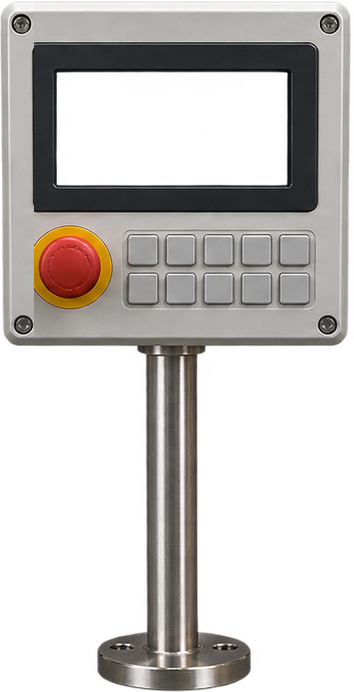
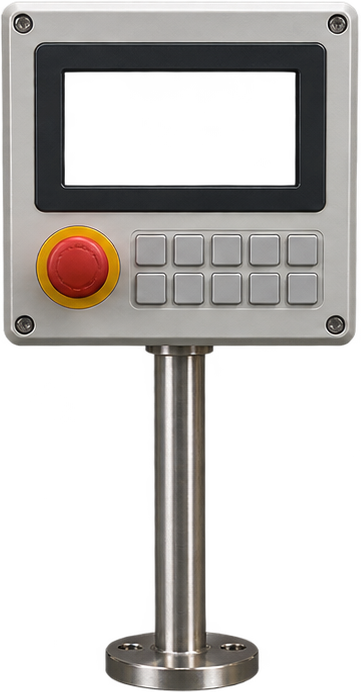
Expo 2019: пульт на стойке — из дорисованного Эльдаром исходника, на экране своё стекло.
Эльдар (29.10): «дорисовал — там оказывается кусочек был отрезан и лежал в другом файле
(line_monitor)»; «на экране должно быть что-то, он сейчас дыркой выглядит». Пульт —
hmi_terminal.png целиком, обрезан по альфе (361×692): коробка 4…341, стойка 154…204;
моя зеркальная достройка левого края больше не нужна. Экран в исходнике прозрачный
(65…294 × 72…184) — под ним тёмное стекло со строками, как у прежнего пульта.

diff --git a/expo/expo.html b/expo/expo.html
@@ -10374,16 +10374,23 @@ function drawPendant(t){
     /* стойка на листе — столбцы 112…162 (замер альфы по строкам 360…620), ось 137;
        ниже строки 600 лист срезан, и стойка тянется до пола полосой из самого листа
        (строки 560…600), растянутой по высоте: та же сталь, тот же блик */
-    /* лист достроен слева на 34 точки (r_r19_hmi_terminal_full, 354×692): левое поле
-       коробки — зеркало правого (столбцы 283…317) с винтами, аварийная кнопка дополнена
-       по своему кругу (центр 39.5, 262.5; радиус 36.5). Стойка теперь — столбцы 146…196 */
-    const sc = 112 / 320, cut = 600, ax = 171;
+    /* лист — пульт целиком: Эльдар дорисовал срезанный край (кусок лежал в line_monitor),
+       29.10.2026; обрезан по альфе 34…395 × 38…730 исходника → 361×692. Коробка — строки
+       4…341, стойка — столбцы 154…204, экран прозрачный (65…294 × 72…184) — под ним
+       своё тёмное стекло. */
+    const sc = 112 / 320, cut = 600, ax = 179;
     const src = spriteMip(HM, HM.w * sc * S, HM.h * sc * S);
-    const fy = (src.height || src.naturalHeight) / 692, fx = (src.width || src.naturalWidth) / 354;
+    const fy = (src.height || src.naturalHeight) / 692, fx = (src.width || src.naturalWidth) / 361;
     const x0 = px2 - ax * sc * S, yTopB = Y(PT);
     const yCut = yTopB + cut * sc * S;
-    ctx.drawImage(src, 146 * fx, 560 * fy, 51 * fx, 40 * fy, x0 + 146 * sc * S, yCut - 1, 51 * sc * S, Y(1080) - yCut + 1);
-    ctx.drawImage(src, 0, 0, src.width || src.naturalWidth, cut * fy, x0, yTopB, 354 * sc * S, cut * sc * S);    ctx.restore();
+    ctx.drawImage(src, 154 * fx, 560 * fy, 51 * fx, 40 * fy, x0 + 154 * sc * S, yCut - 1, 51 * sc * S, Y(1080) - yCut + 1);
+    { // стекло экрана: тёмное, с несколькими строками, как на прежнем пульте
+      const ex = x0 + 63 * sc * S, ey = yTopB + 70 * sc * S, ew = 234 * sc * S, eh = 117 * sc * S;
+      ctx.fillStyle = '#16232b'; ctx.fillRect(ex, ey, ew, eh);
+      ctx.fillStyle = 'rgba(120,215,255,0.55)';
+      for (let i2 = 0; i2 < 4; i2++) ctx.fillRect(ex + ew * 0.10, ey + eh * (0.2 + i2 * 0.18), ew * (0.62 - i2 * 0.1), Math.max(1, eh * 0.05));
+    }
+    ctx.drawImage(src, 0, 0, src.width || src.naturalWidth, cut * fy, x0, yTopB, 361 * sc * S, cut * sc * S);    ctx.restore();
     return;
   }
   ctx.strokeStyle = 'rgba(168,174,180,0.9)'; ctx.lineWidth = Math.max(1, 6 * S);
@@ -14978,7 +14985,7 @@ async function loadPhotoSkin(){
     ph_t00f: 'r_t00_frame.png', ph_t00x: 'r_t00_crosshead.png', ph_t00g: 'r_t00_gauge_dial.png',
     ph_t00c: 'r_t00_control.png', ph_t00p: 'r_t00_powder_press.png', ph_t00h: 'r_t00_sinter_furnace.png',
     ph_t00b: 'r_t00_conveyor.png',
-    ph_r19hmi: 'r_r19_hmi_terminal_full.png',   // левый край достроен: исходник срезан по рамке и аварийной кнопке (Эльдар, 29.10.2026)
+    ph_r19hmi: 'r_r19_hmi_terminal_full.png',   // пульт целиком — Эльдар дорисовал срезанный край (кусок лежал в line_monitor), 29.10.2026
     // 2019: фабрика BruxZir — рендеры Эльдара «BruxZirFactory*» (29.10.2026), обрезаны по альфе
     ph_bzfF: 'r_bzf_frame.png', ph_bzfA: 'r_bzf_axis.png', ph_bzfB: 'r_bzf_beam.png', ph_bzfG: 'r_bzf_gripper.png',   // 2019: пульт на стойке (реализм 09, только он — Эльдар, 29.10.2026)
     ph_crt: 'r_crt.png',              // 2002: ЭЛТ-монитор (ChatGPT), экран — прозрачный проём 160…752 × 95…544
